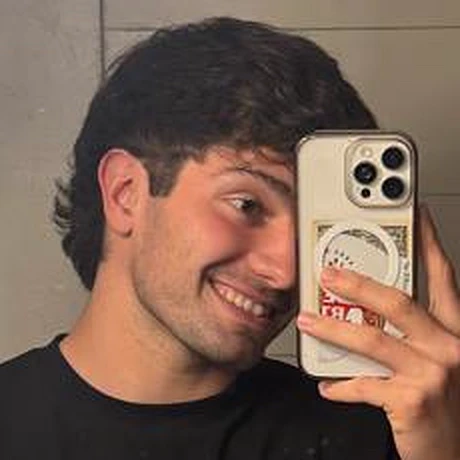
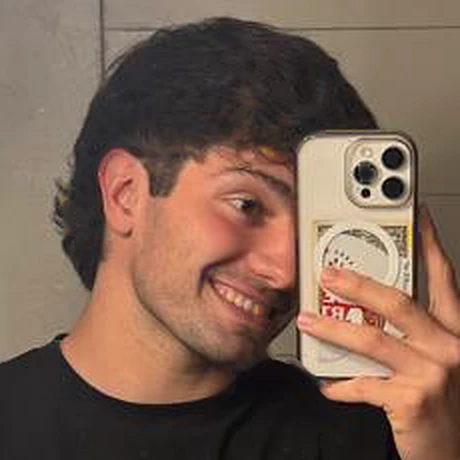
Fotos sin motas de polvo, contacto ajustado en celular y grilla sin desborde horizontal

diff --git a/src/components/sections/Contact.tsx b/src/components/sections/Contact.tsx
@@ -41,23 +41,28 @@ export function Contact() {
 
           <a
             href={`mailto:${SITE.email}`}
-            className={cn(buttonVariants({ variant: 'default', size: 'lg' }), 'h-auto min-h-12 max-w-full py-3 normal-case [overflow-wrap:anywhere] whitespace-normal')}
+            className={cn(buttonVariants({ variant: 'default', size: 'lg' }), 'h-auto min-h-12 max-w-full py-3 normal-case whitespace-normal')}
           >
             <MailIcon aria-hidden="true" />
             <span className="sr-only">{t('email')}: </span>
-            <span className="text-base tracking-normal">{SITE.email}</span>
+            {/* If it still has to wrap on a narrow phone, break after the @, not mid-domain. */}
+            <span className="text-sm tracking-normal sm:text-base">
+              {SITE.email.split('@')[0]}@<wbr />
+              {SITE.email.split('@')[1]}
+            </span>
           </a>
 
-          <ul className="flex flex-wrap justify-center gap-2">
+          <ul className="flex max-w-full flex-wrap justify-center gap-2">
             {rows.map((row) => (
-              <li key={row.key}>
+              <li key={row.key} className="max-w-full">
                 <a
                   href={row.href}
                   {...(row.external && { target: '_blank', rel: 'noopener noreferrer' })}
-                  className={cn(buttonVariants({ variant: 'outline', size: 'sm' }), 'normal-case')}
+                  // max-w-full + truncate: the LinkedIn URL is wider than a phone-width card.
+                  className={cn(buttonVariants({ variant: 'outline', size: 'sm' }), 'max-w-full normal-case')}
                 >
                   <span className="text-muted-foreground uppercase">{t(row.key)}</span>
-                  <span className="tracking-normal">{row.text}</span>
+                  <span className="min-w-0 truncate tracking-normal">{row.text}</span>
                   {row.external && (
                     <>
                       <span className="sr-only"> ({t('external')})</span>

diff --git a/src/components/sections/Section.tsx b/src/components/sections/Section.tsx
@@ -7,7 +7,8 @@ export function Container({ className, ...props }: React.ComponentProps<'div'>) 
 }
 
 /** Narrow facts column beside a wide content column, from 900px; one column below. */
-export const TWO_COL = 'grid gap-x-12 min-[900px]:grid-cols-[12rem_minmax(0,1fr)]'
+// minmax(0,1fr) on phones too: an implicit auto track grows to its widest child (e.g. a carousel's thumbnail strip).
+export const TWO_COL = 'grid grid-cols-[minmax(0,1fr)] gap-x-12 min-[900px]:grid-cols-[12rem_minmax(0,1fr)]'
 
 /** Home section: anchor id, hairline above, 64px / 96px vertical space. */
 export function Section({

diff --git a/src/components/sections/Work.tsx b/src/components/sections/Work.tsx
@@ -37,7 +37,7 @@ export function Work() {
           {more.map((project) => {
             const link = project.links[0]
             return (
-              <li key={project.slug} className="grid gap-x-8 gap-y-2 py-6 sm:grid-cols-[minmax(0,1fr)_auto]">
+              <li key={project.slug} className="grid grid-cols-[minmax(0,1fr)] gap-x-8 gap-y-2 py-6 sm:grid-cols-[minmax(0,1fr)_auto]">
                 {project.media.length > 0 && (
                   <div className="mb-4 sm:col-span-2">
                     <MediaCarousel slides={project.media} locale={locale} projectName={project.name} />
